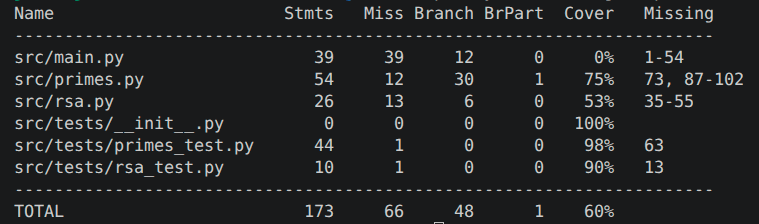
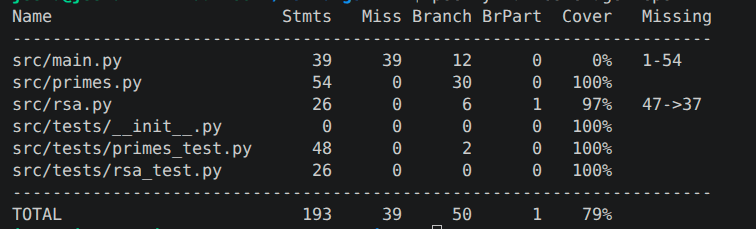
improved sample_odd_number testing + made function more efficient

diff --git a/src/tests/primes_test.py b/src/tests/primes_test.py
@@ -4,16 +4,19 @@ from primes import sample_odd_number, miller_rabin_test, sieve_of_eratosthenes, 
 
 class TestSampleOddNumber(unittest.TestCase):
     def setUp(self):
-        self.num = sample_odd_number()
+        self.nums = [sample_odd_number() for _ in range(100)]
 
     def test_number_is_odd(self):
-        self.assertEqual(self.num % 2, 1)
+        for num in self.nums:
+            self.assertEqual(num % 2, 1)
 
     def test_number_is_below_upper_bound(self):
-        self.assertEqual(self.num <= 2**1024, True)
+        for num in self.nums:
+            self.assertEqual(num <= 2**1024, True)
 
     def test_number_is_above_lower_bound(self):
-        self.assertEqual(self.num >= 2**1023, True)
+        for num in self.nums:
+            self.assertEqual(num >= 2**1023, True)
 
 class TestMillerRabinTest(unittest.TestCase):
     def setUp(self):

diff --git a/src/primes.py b/src/primes.py
@@ -2,7 +2,7 @@ import secrets
 import random
 
 def sample_odd_number():
-    """Luo parittoman kokonaisluvun väliltä [2^1023, 2^1024] satunnaisesti.
+    """Luo parittoman kokonaisluvun väliltä [2^1023, 2^1024) satunnaisesti.
 
     Returns:
         Pariton kokonaisluku väliltä [2^1023, 2^1024).
@@ -11,9 +11,10 @@ def sample_odd_number():
     upper_bound = 2**1024
     lower_bound = 2**1023
 
-    random_num = 0
-    while random_num % 2 == 0:
-        random_num = secrets.randbelow(upper_bound - lower_bound) + lower_bound
+    random_num = secrets.randbelow(upper_bound - lower_bound) + lower_bound
+    
+    if random_num % 2 == 0:
+        random_num += 1
 
     return random_num
 

diff --git a/dokumentaatio/testausdokumentti.md b/dokumentaatio/testausdokumentti.md
@@ -1,8 +1,12 @@
 # Testausdokumentti
 
-## Yksikkötestauksen kattavuusraportti tällä hetkellä
+## Yksikkötestauksen kattavuusraportti
 
-![alt text](kuvat/kattavuusraportti.png)
+![alt text](![alt text](kuvat/kattavuusraportti.png))
+
+## Mitä on testattu ja minkälaisilla syötteillä
+
+Satunnaisten parittomien lukujen luonti väliltä [2^1023, 2^1024) (funktio sample_odd_number primes.py moduulista). Yksikkötestit testaavat että luku on pariton, sekä että luku kuuluu halutulle intervallille. Funktion toimivuus testataan lisäämällä sata sen luomaa numeroa listaan ja tarkistamalla jokaiselle numerolle listalla, että yllä mainitut testit läpäisevät.
 
 ## Miten testit voi toistaa?
 